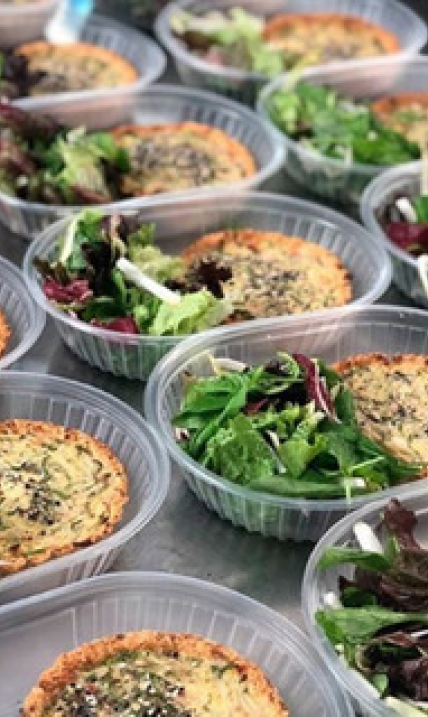
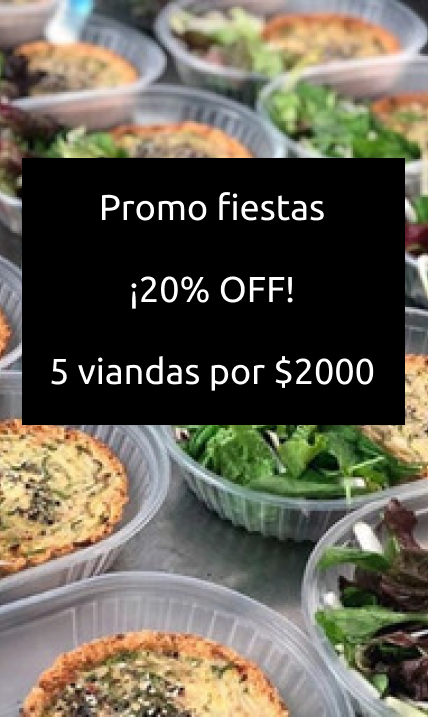
fixing store page layout

diff --git a/styles/globals.css b/styles/globals.css
@@ -1,15 +1,14 @@
 :root {
   --max-width: 1100px;
-  --border-radius: 12px;
-  --font-mono: ui-monospace, Menlo, Monaco, 'Cascadia Mono', 'Segoe UI Mono',
-    'Roboto Mono', 'Oxygen Mono', 'Ubuntu Monospace', 'Source Code Pro',
-    'Fira Mono', 'Droid Sans Mono', 'Courier New', monospace;
+  --font-mono: ui-monospace, Menlo, Monaco, "Cascadia Mono", "Segoe UI Mono",
+    "Roboto Mono", "Oxygen Mono", "Ubuntu Monospace", "Source Code Pro",
+    "Fira Mono", "Droid Sans Mono", "Courier New", monospace;
 
   --foreground-rgb: 0, 0, 0;
 
-  --primary: #0094FF;
+  --primary: #0094ff;
   --padding: 5px 10px;
-  --border-radius: 10px;
+  --border-radius: 15px;
 
   --primary-glow: conic-gradient(
     from 180deg at 50% 50%,
@@ -83,7 +82,6 @@
 
 html {
   background-color: black;
-  
 }
 
 body {
@@ -122,6 +120,11 @@ a.button.secondary {
   border-radius: var(--border-radius);
 }
 
+img.storyImage {
+  width: 100vw;
+  max-width: 420px;
+}
+
 div.progressBarContainer {
   display: flex;
   position: absolute;
@@ -158,16 +161,25 @@ div.profileTitle > div.userName > h2 {
 }
 
 div.payButton {
+  text-transform: uppercase;
   position: absolute;
   top: 500px;
+  position: absolute;
+  left: 50%;
+  -webkit-transform: translateX(-50%);
+  transform: translateX(-50%);
+  height: 57px;
+  width: 300px;
 }
 
-p.storyText {
+div.payButton > a {
+  display: inline-block;
+  height: 100%;
+  width: 100%;
+}
+
+div.payButton > img {
+  right: 0;
   position: absolute;
-  top: 40%;
-  background-color: black;
-  color: white;
-  font-size: 30px;
-  padding: 20px 30px;
-  margin-left: 40px;
+  pointer-events: none;
 }

diff --git a/components/Story.tsx b/components/Story.tsx
@@ -3,16 +3,11 @@ import story from "../public/story.png"
 
 export const Story = () => {
   return (
-    <>
     <Image
       src={story}
       alt="Story"
       placeholder="blur"
+      className="storyImage"
     />
-    <p className="storyText">
-      3x2 until tomorrow 🎉<br />
-      FREE SHIPPING 🚚
-    </p>
-    </>
   )
 }
